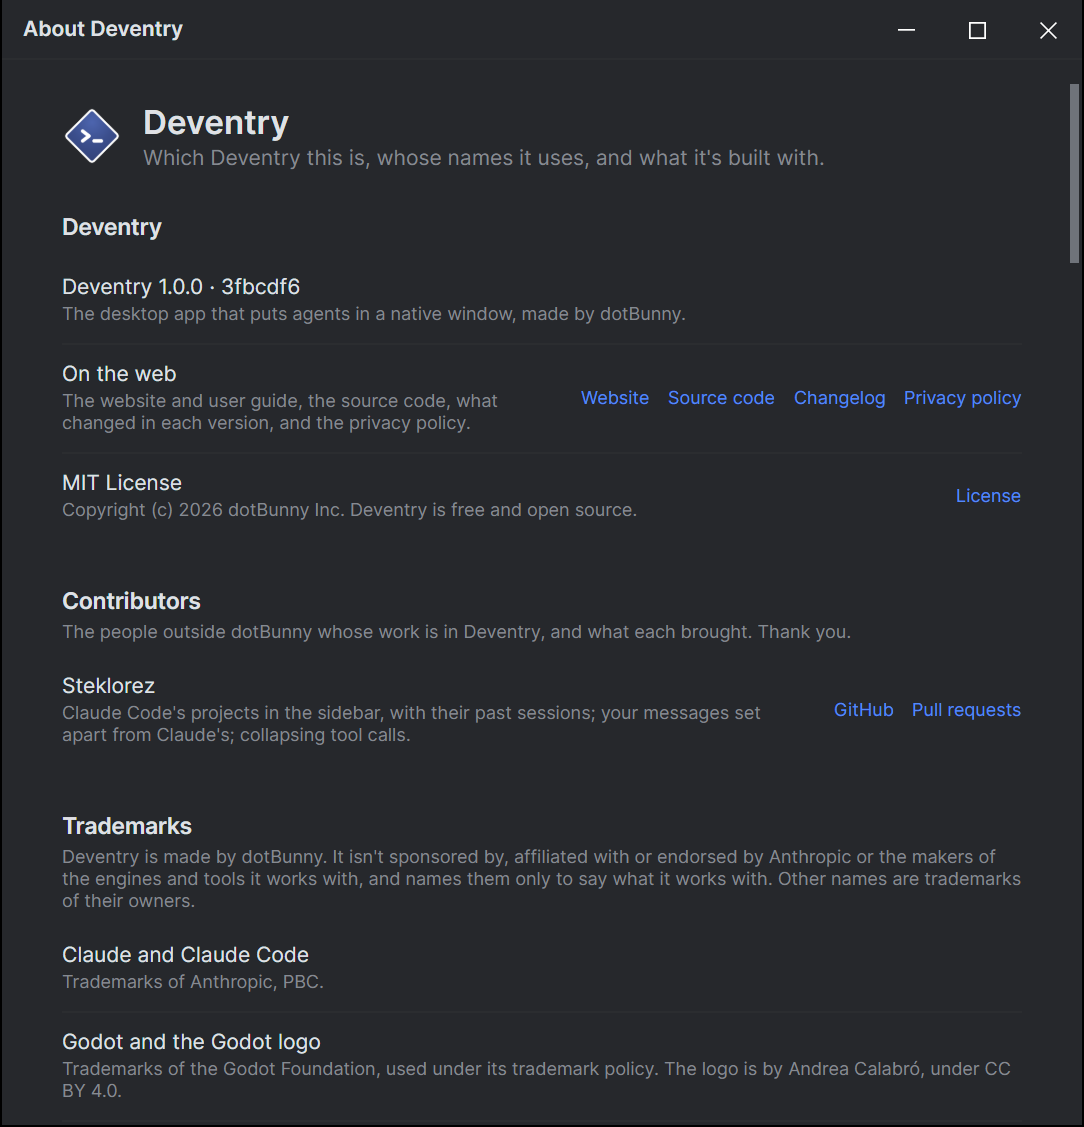
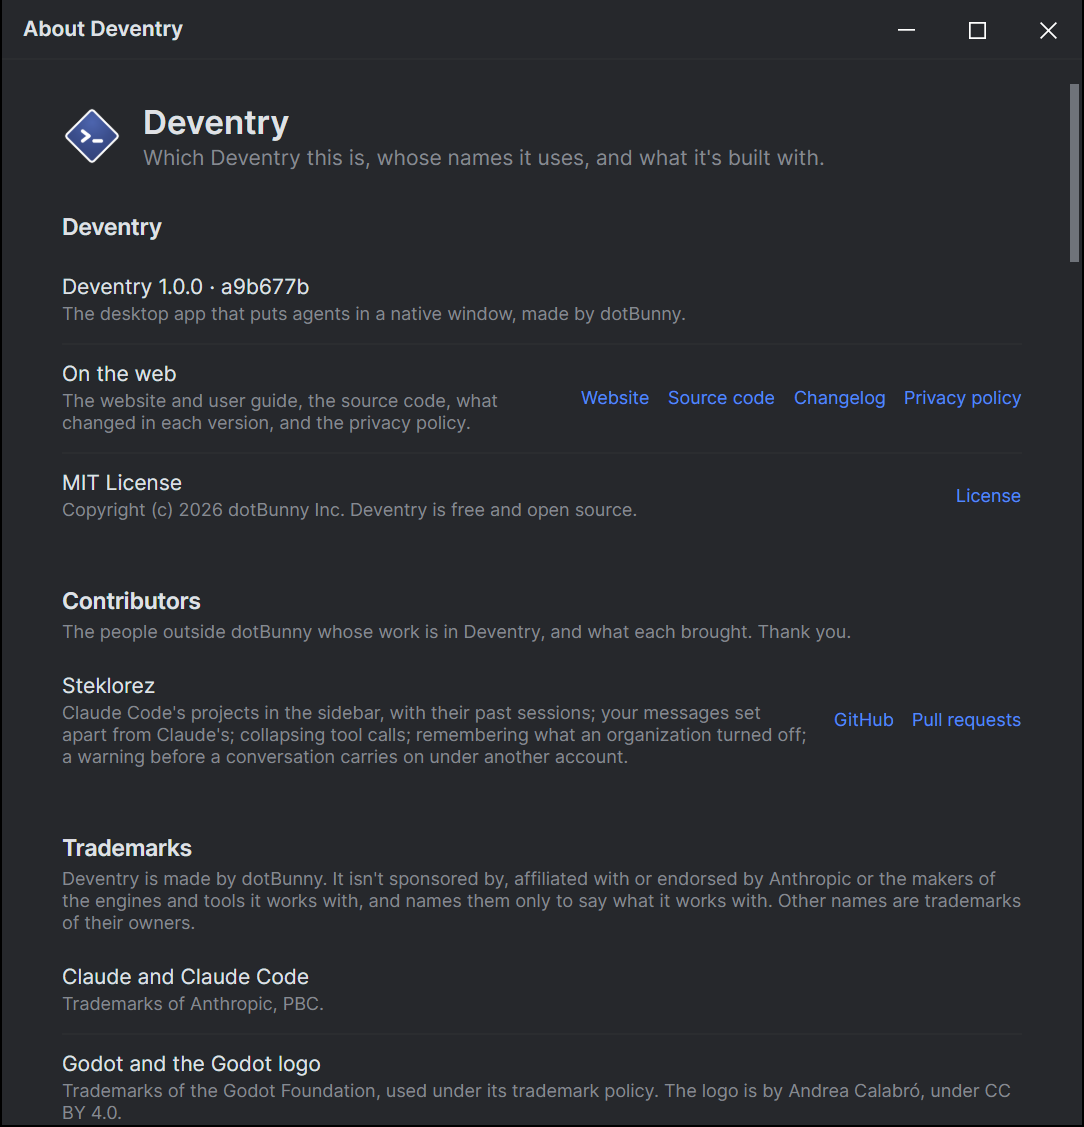
About's Contributors names Steklorez's account boundaries

diff --git a/src/Deventry.App/ViewModels/Settings/AboutPage.cs b/src/Deventry.App/ViewModels/Settings/AboutPage.cs
@@ -45,7 +45,7 @@ public sealed partial class AboutPage : SettingsPage
     public static IReadOnlyList<Contributor> ContributorList { get; } =
     [
         new("Steklorez", "Steklorez",
-            "Claude Code's projects in the sidebar, with their past sessions; your messages set apart from Claude's; collapsing tool calls."),
+            "Claude Code's projects in the sidebar, with their past sessions; your messages set apart from Claude's; collapsing tool calls; remembering what an organization turned off; a warning before a conversation carries on under another account."),
     ];
 
     /// <summary><b>Try the demo</b>, at the window's foot (DESIGN.md §11, "Demo mode").</summary>
